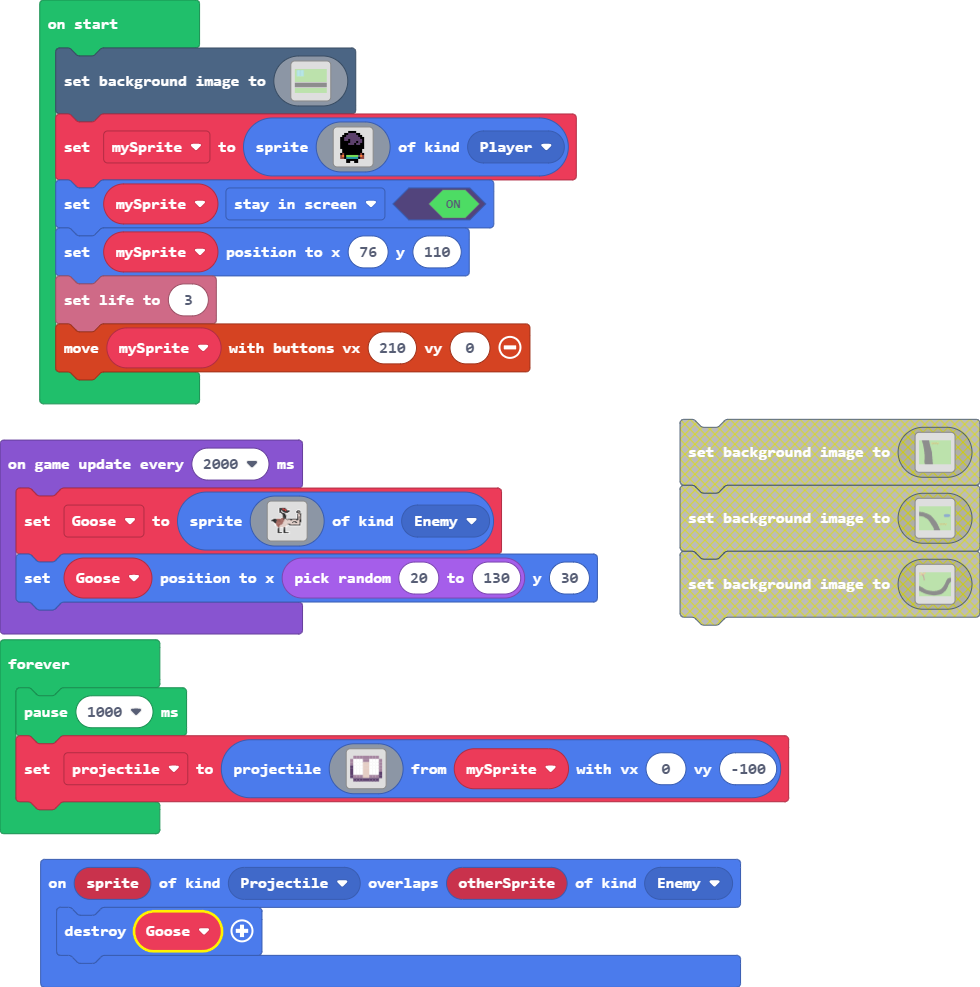
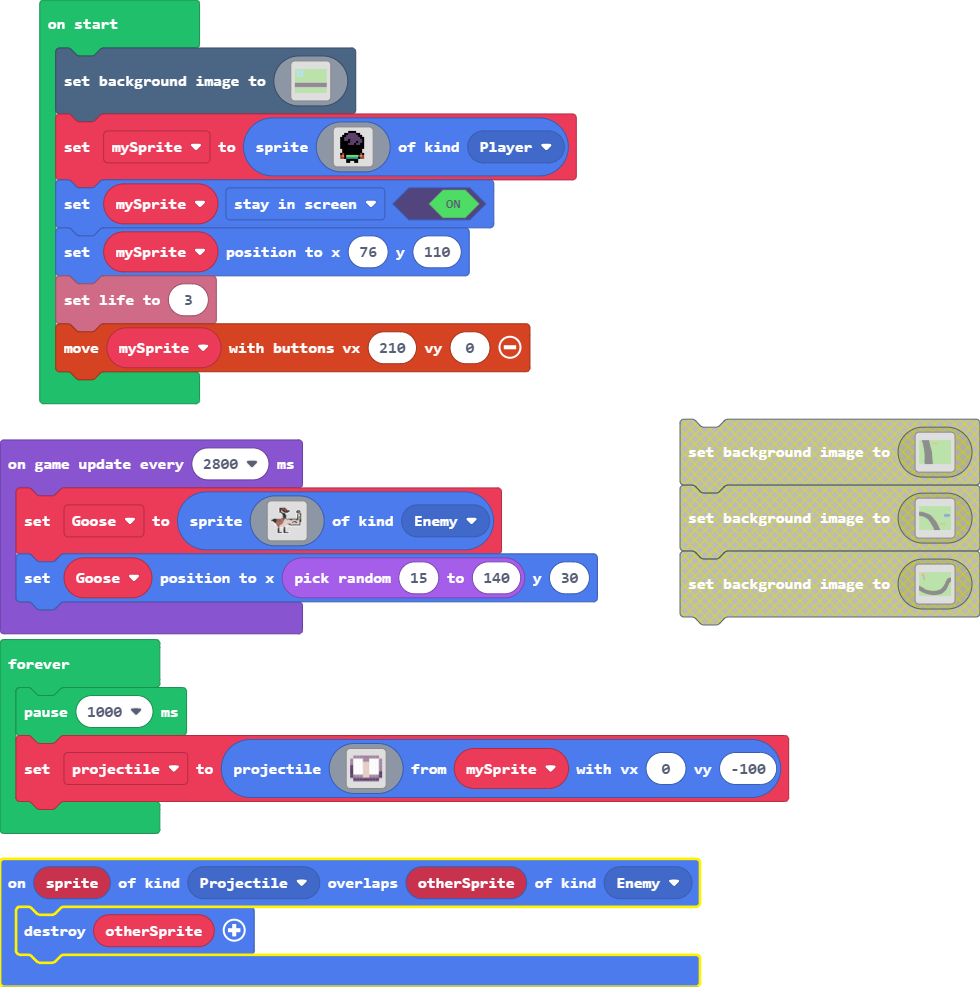
GooseSpawning Fixed

Changed region(s): [[0.0, 0.8511, 0.7653, 1.0]]

diff --git a/main.ts b/main.ts
@@ -1,8 +1,8 @@
 sprites.onOverlap(SpriteKind.Projectile, SpriteKind.Enemy, function (sprite, otherSprite) {
-    Goose.destroy()
+    otherSprite.destroy()
 })
-let projectile: Sprite = null
 let Goose: Sprite = null
+let projectile: Sprite = null
 scene.setBackgroundImage(img`
     7777777777777777777777777777777777777777777777777777777777777777777777777777777777777777777777777777777777777777777777777777777777777777777777777777777777777777
     7777777777777777777777777777777777777777777777777777777777777777777777777777777777777777777777777777777777777777777777777777777777777777777777777777777777777777
@@ -147,7 +147,20 @@ mySprite.setFlag(SpriteFlag.StayInScreen, true)
 mySprite.setPosition(76, 110)
 info.setLife(3)
 controller.moveSprite(mySprite, 210, 0)
-game.onUpdateInterval(2000, function () {
+forever(function () {
+    pause(1000)
+    projectile = sprites.createProjectileFromSprite(img`
+        . b b b b b b b b . 
+        b 1 1 1 b b 1 1 1 b 
+        b 1 1 1 d d 1 1 1 b 
+        c 1 1 1 d d 1 1 1 b 
+        c 1 1 1 d d 1 1 1 b 
+        c 1 1 1 d d 1 1 1 c 
+        c b b b d d b b b c 
+        . c c c c c c c c . 
+        `, mySprite, 0, -100)
+})
+game.onUpdateInterval(2800, function () {
     Goose = sprites.create(img`
         ..........1111111.....................
         .........1fffffff1....................
@@ -182,18 +195,5 @@ game.onUpdateInterval(2000, function () {
         .......1fffff11ffffff1................
         .......111111111111111................
         `, SpriteKind.Enemy)
-    Goose.setPosition(randint(20, 130), 30)
-})
-forever(function () {
-    pause(1000)
-    projectile = sprites.createProjectileFromSprite(img`
-        . b b b b b b b b . 
-        b 1 1 1 b b 1 1 1 b 
-        b 1 1 1 d d 1 1 1 b 
-        c 1 1 1 d d 1 1 1 b 
-        c 1 1 1 d d 1 1 1 b 
-        c 1 1 1 d d 1 1 1 c 
-        c b b b d d b b b c 
-        . c c c c c c c c . 
-        `, mySprite, 0, -100)
+    Goose.setPosition(randint(15, 140), 30)
 })
